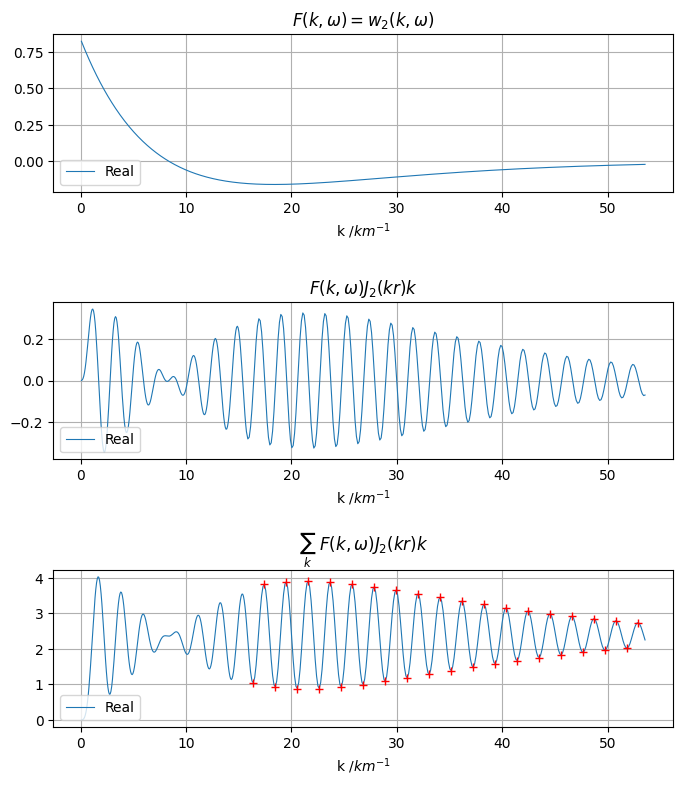
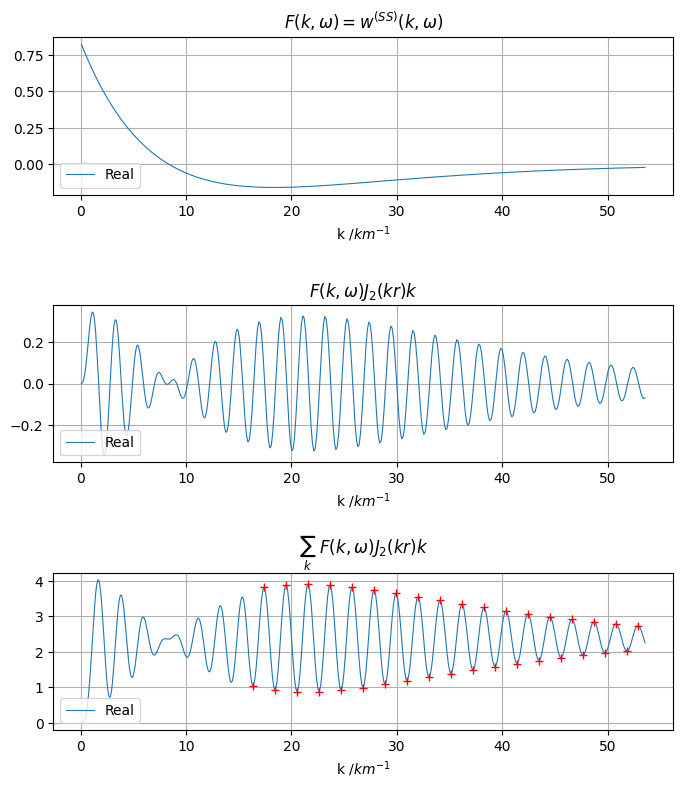
DOC: update function calling in examples

diff --git a/docs/source/Advanced/integ_converg/run/run.py b/docs/source/Advanced/integ_converg/run/run.py
@@ -35,12 +35,11 @@ print(statsdata.dtype)
 # BEGIN plot stats
 ir = 2
 dist=distarr[ir]
-srctype="DC"
-mtype="2"
+srctype="SS"
 ptype="0"
-fig, ax = pygrt.utils.plot_statsdata(statsdata, dist=dist, srctype=srctype, mtype=mtype, ptype=ptype)
+fig, ax = pygrt.utils.plot_statsdata(statsdata, dist=dist, srctype=srctype, ptype=ptype)
 fig.tight_layout()
-fig.savefig(f"{srctype}_{mtype}{ptype}.png", dpi=100)
+fig.savefig(f"{srctype}_{ptype}.png", dpi=100)
 # END plot stats
 # -------------------------------------------------------------------
 
@@ -48,12 +47,11 @@ fig.savefig(f"{srctype}_{mtype}{ptype}.png", dpi=100)
 # BEGIN plot stats RI
 ir = 2
 dist=distarr[ir]
-srctype="DC"
-mtype="2"
+srctype="SS"
 ptype="0"
-fig, ax = pygrt.utils.plot_statsdata(statsdata, dist=dist, srctype=srctype, mtype=mtype, ptype=ptype, RorI=2)
+fig, ax = pygrt.utils.plot_statsdata(statsdata, dist=dist, srctype=srctype, ptype=ptype, RorI=2)
 fig.tight_layout()
-fig.savefig(f"{srctype}_{mtype}{ptype}_RI.png", dpi=100)
+fig.savefig(f"{srctype}_{ptype}_RI.png", dpi=100)
 # END plot stats RI
 # -------------------------------------------------------------------
 
@@ -73,12 +71,11 @@ stgrnLst = pymod.compute_grn(
 statsdata = pygrt.utils.read_statsfile(f"pygrtstats_{depsrc}_{deprcv}/K_0050_*")
 
 dist=10
-srctype="DC"
-mtype="2"
+srctype="SS"
 ptype="0"
-fig, ax = pygrt.utils.plot_statsdata(statsdata, dist=dist, srctype=srctype, mtype=mtype, ptype=ptype, RorI=2)
+fig, ax = pygrt.utils.plot_statsdata(statsdata, dist=dist, srctype=srctype, ptype=ptype, RorI=2)
 fig.tight_layout()
-fig.savefig(f"{srctype}_{mtype}{ptype}_{depsrc}_RI.png", dpi=100)
+fig.savefig(f"{srctype}_{ptype}_{depsrc}_RI.png", dpi=100)
 # END DEPSRC 0.0 DGRN
 # -------------------------------------------------------------------
 
@@ -88,12 +85,11 @@ fig.savefig(f"{srctype}_{mtype}{ptype}_{depsrc}_RI.png", dpi=100)
 ir = 2
 statsdata1, statsdata2, ptamdata, dist = pygrt.utils.read_statsfile_ptam(f"pygrtstats_{depsrc}_{deprcv}/PTAM_{ir:04d}_*/PTAM_0050_*")
 
-srctype="DC"
-mtype="2"
+srctype="SS"
 ptype="0"
-fig, ax = pygrt.utils.plot_statsdata_ptam(statsdata1, statsdata2, ptamdata, dist=dist, srctype=srctype, mtype=mtype, ptype=ptype, RorI=2)
+fig, ax = pygrt.utils.plot_statsdata_ptam(statsdata1, statsdata2, ptamdata, dist=dist, srctype=srctype, ptype=ptype, RorI=2)
 fig.tight_layout()
-fig.savefig(f"{srctype}_{mtype}{ptype}_{depsrc}_ptam_RI.png", dpi=100)
+fig.savefig(f"{srctype}_{ptype}_{depsrc}_ptam_RI.png", dpi=100)
 # END plot ptam
 # -------------------------------------------------------------------
 
@@ -117,18 +113,17 @@ static_grn = pymod.compute_static_grn(xarr, yarr, statsfile=f"static_pygrtstats_
 ir = 0
 statsdata1, statsdata2, ptamdata, dist = pygrt.utils.read_statsfile_ptam(f"static_pygrtstats_{depsrc}_{deprcv}/PTAM_{ir:04d}_*/PTAM")
 
-srctype="DC"
-mtype="2"
+srctype="SS"
 ptype="0"
 # 只使用离散波数积分的积分变化
-fig, ax = pygrt.utils.plot_statsdata(statsdata1, dist=dist, srctype=srctype, mtype=mtype, ptype=ptype, RorI=True)
+fig, ax = pygrt.utils.plot_statsdata(statsdata1, dist=dist, srctype=srctype, ptype=ptype, RorI=True)
 fig.tight_layout()
-fig.savefig(f"{srctype}_{mtype}{ptype}_{depsrc}_static.png", dpi=100)
+fig.savefig(f"{srctype}_{ptype}_{depsrc}_static.png", dpi=100)
 
 # 使用了峰谷平均法的积分变化
-fig, ax = pygrt.utils.plot_statsdata_ptam(statsdata1, statsdata2, ptamdata, dist=dist, srctype=srctype, mtype=mtype, ptype=ptype, RorI=True)
+fig, ax = pygrt.utils.plot_statsdata_ptam(statsdata1, statsdata2, ptamdata, dist=dist, srctype=srctype, ptype=ptype, RorI=True)
 fig.tight_layout()
-fig.savefig(f"{srctype}_{mtype}{ptype}_{depsrc}_ptam_static.png", dpi=100)
+fig.savefig(f"{srctype}_{ptype}_{depsrc}_ptam_static.png", dpi=100)
 
 # END SGRN
 # -------------------------------------------------------------------

diff --git a/docs/source/Advanced/kernel/run/run.py b/docs/source/Advanced/kernel/run/run.py
@@ -42,7 +42,7 @@ def plot_kernel(kerDct:dict, RorI:bool, out:Union[str,None]=None):
             continue
         ktypes.append(key)
 
-    srctypes = ['EXP0', 'VF0', 'HF1', 'DC0', 'DC1', 'DC2']
+    srctypes = ['EX', 'VF', 'HF', 'DD', 'DS', 'SS']
 
     vels = kerDct['_vels']
     freqs = kerDct['_freqs']
@@ -51,7 +51,7 @@ def plot_kernel(kerDct:dict, RorI:bool, out:Union[str,None]=None):
     gs = fig.add_gridspec(len(srctypes), 3)
     qwvLst = ['q', 'w', 'v']
     for ik, key in enumerate(ktypes):
-        srctype = key.split("_")[0]+key.split("_")[1][1:]
+        srctype = key.split("_")[0]
         qwv = key.split("_")[1][0]
         
         ax = fig.add_subplot(gs[srctypes.index(srctype), qwvLst.index(qwv)])

diff --git a/example/view_integ_stats/view.py b/example/view_integ_stats/view.py
@@ -6,11 +6,11 @@ import glob
 data = pygrt.utils.read_statsfile("stgrtstats/halfspace2_0.1_0/K")
 
 dist = 3
-fig, ax = pygrt.utils.plot_statsdata(data, dist, "DC", "2", "2")
+fig, ax = pygrt.utils.plot_statsdata(data, dist, "SS", "2")
 
 
 data1, data2, ptamdata, dist = pygrt.utils.read_statsfile_ptam("stgrtstats/halfspace2_0.1_0/PTAM_0090_*/PTAM")
-fig, ax = pygrt.utils.plot_statsdata_ptam(data1, data2, ptamdata, dist, "DC", "2", "2")
+fig, ax = pygrt.utils.plot_statsdata_ptam(data1, data2, ptamdata, dist, "SS", "2")
 # fig.tight_layout()
 # fig.savefig("view_stats.png", dpi=100, bbox_inches='tight')
 # plt.show()

diff --git a/example/view_integ_stats/view_dynamic.py b/example/view_integ_stats/view_dynamic.py
@@ -4,7 +4,7 @@ import matplotlib.pyplot as plt
 
 
 data1, data2, ptamdata, dist = pygrt.utils.read_statsfile_ptam("GRN_grtstats/halfspace2_0.01_0/PTAM_0000_1.00000e+00/PTAM_0142_*")
-fig, ax = pygrt.utils.plot_statsdata_ptam(data1, data2, ptamdata, dist, "DC", "2", "2")
+fig, ax = pygrt.utils.plot_statsdata_ptam(data1, data2, ptamdata, dist, "SS", "2")
 # fig.tight_layout()
 # fig.savefig("view_stats.png", dpi=100, bbox_inches='tight')
 # plt.show()

diff --git a/example/kernel_freq_response/run.py b/example/kernel_freq_response/run.py
@@ -16,7 +16,7 @@ vels = np.arange(0.1, 0.6, 0.001)
 kerDct = pygrt.utils.read_kernels_freqs("pygrtstats", vels)
 
 
-Type = "HF_v1"
+Type = "HF_v"
 vels = kerDct['_vels']
 freqs = kerDct['_freqs']
 data = kerDct[Type].copy()
